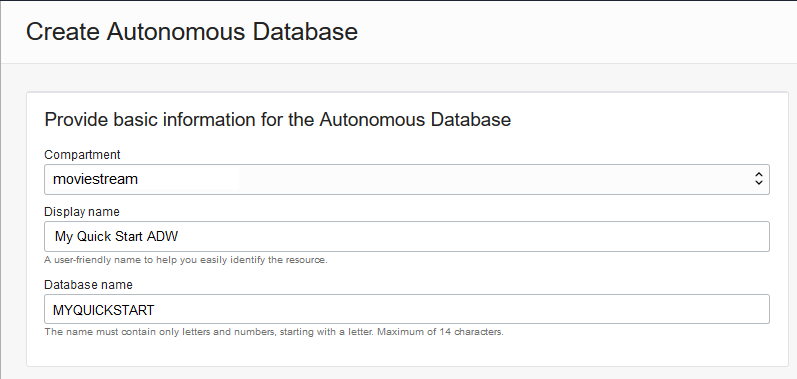
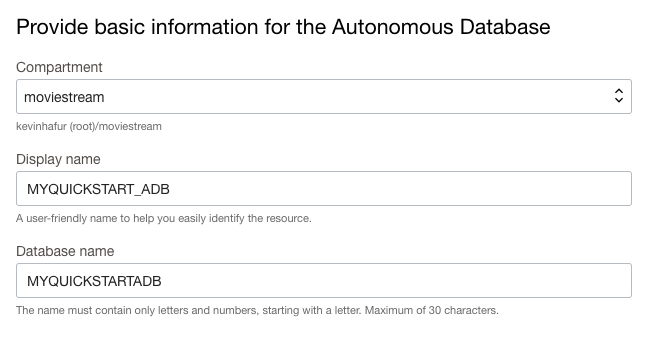
WMS ID 8881: Bug fixes
WMS ID 8881: Bug fixes

Changed region(s): [[0.0, 0.1754, 0.9907, 0.9357], [0.0, 0.0585, 0.8669, 0.117], [0.0, 0.0, 0.031, 0.0292]]

diff --git a/shared/adb-15-minutes/provision-database/adb-provision-moviestream.md b/shared/adb-15-minutes/provision-database/adb-provision-moviestream.md
@@ -43,28 +43,28 @@ In this lab, you will:
 
 <if type="freetier">
     - __Choose a compartment__ - You can simply use the default compartment or pick a different one. See [the documentation](https://docs.oracle.com/en-us/iaas/Content/Identity/Tasks/managingcompartments.htm) if you want to learn more about compartments.
-    - __Display Name__ - Enter a memorable name for the database for display purposes. For this lab, use __My Quick Start ADB__.
+    - __Display Name__ - Enter a memorable name for the database for display purposes. For this lab, use __MYQUICKSTART_ADB_.
     - __Database Name__ - Use letters and numbers only, starting with a letter. Maximum length is 14 characters. (Underscores not initially supported.) For this lab, use __MYQUICKSTART__.
 
     ![Enter the required details.](./images/create-adb-screen-freetier.png " ")
 </if>
 <if type="livelabs">
     - __Choose a compartment__ - Use the default compartment created for you.
-    - __Display Name__ - Enter a memorable name for the database for display purposes. For this lab, use __My Quick Start ADB__.
+    - __Display Name__ - Enter a memorable name for the database for display purposes. For this lab, use __MYQUICKSTART_ADB__.
     - __Database Name__ - Use letters and numbers only, starting with a letter. Maximum length is 14 characters. (Underscores not initially supported.) For this lab, use __MOVIE+your user id__, for example, __MOVIE9352__.
 
     ![Enter the required details.](./images/livelabs-adwname.png " ")
 </if>
 
-4. Choose __Data Warehouse__ workload type:
+1. Choose __Data Warehouse__ workload type:
 
     ![Choose a workload type.](./images/adb-workload-type.png " ")
 
-5. Choose __Shared Infrastructure__ deployment type:
+2. Choose __Shared Infrastructure__ deployment type:
 
     ![Choose a deployment type.](./images/adb-deployment-type.png " ")
 
-6. Configure the database:
+3. Configure the database:
 
     - __Always Free__ - If your Cloud Account is an Always Free account, you can select this option to create an always free autonomous database. An always free database comes with 1 CPU and 20 GB of storage. For this lab, we recommend you leave Always Free unchecked.
     - __Choose database version__ - Select 19c as the database version.
@@ -77,7 +77,7 @@ In this lab, you will:
 
     ![Choose the remaining parameters.](./images/adb-configure.png " ")
 
-7. Create administrator credentials:
+4. Create administrator credentials:
 
     - __Password and Confirm Password__ - Specify the password for ADMIN user of the service instance. The password must meet the following requirements:
     - The password must be between 12 and 30 characters long and must include at least one uppercase letter, one lowercase letter, and one numeric character.
@@ -89,7 +89,7 @@ In this lab, you will:
 
     ![Enter password and confirm password.](./images/admin-credential.png " ")
 
-8. Choose network access:
+5. Choose network access:
     - For this lab, accept the default, "Secure access from everywhere."
     - If you want to allow traffic only from the IP addresses and VCNs you specify - where access to the database from all public IPs or VCNs is blocked, select "Secure access from allowed IPs and VCNs only" in the Choose network access area.
     - If you want to restrict access to a private endpoint within an OCI VCN, select "Private endpoint access only" in the Choose network access area.
